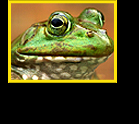
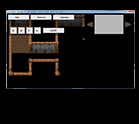
Mise à jour !

diff --git a/index.html b/index.html
@@ -1,6 +1,6 @@
 <html>
 <head>
-<title>Github Projects</title>
+<title>Eubision</title>
 <meta http-equiv="Content-Type" content="text/html; charset=iso-8859-1">
 <!-- ImageReady Preload Script (index.psd) -->
 <script type="text/javascript">
@@ -134,8 +134,8 @@ function preloadImages() {
 			<img src="images/dn2.jpg" width="31" height="54" alt=""></td>
 		<td colspan="6" align="left" valign="top" bgcolor="#000000">
 		    <a href="#">Home</a> | <a href="#">About Us</a> | <a href="#">Donations</a> | <a href="#">Projects</a> | <a href="#">News</a> | <a href="#">Contact</a><br>
-  	      Copyright &copy; Your Company Name<br>
-Design by <a href="http://www.templatesbox.com" target="_blank" class="text3">Templates</a> Box. Create a <a href="http://www.wix.com" target="_blank" class="text3">free website</a>.</td>
+  	      Copyright &copy; Eubision<br>
+        </td>
 	</tr>
 	<tr>
 		<td>
